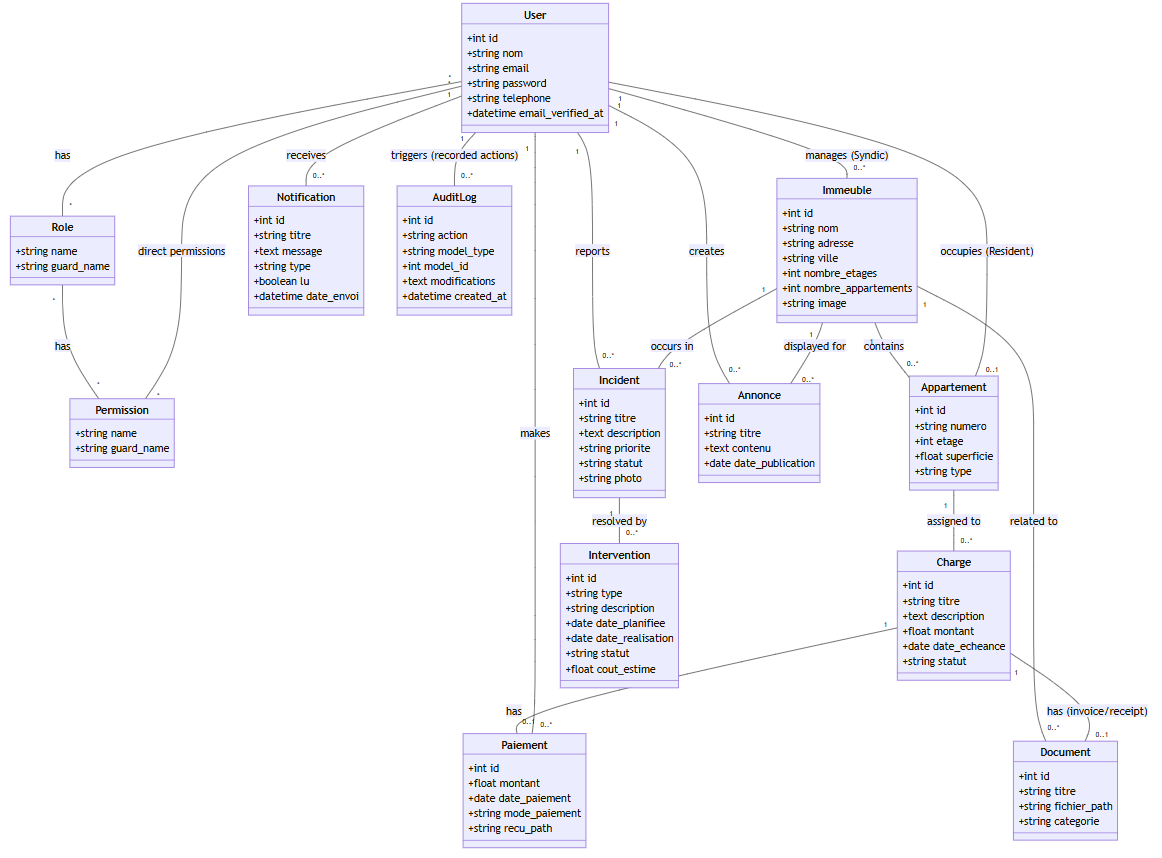
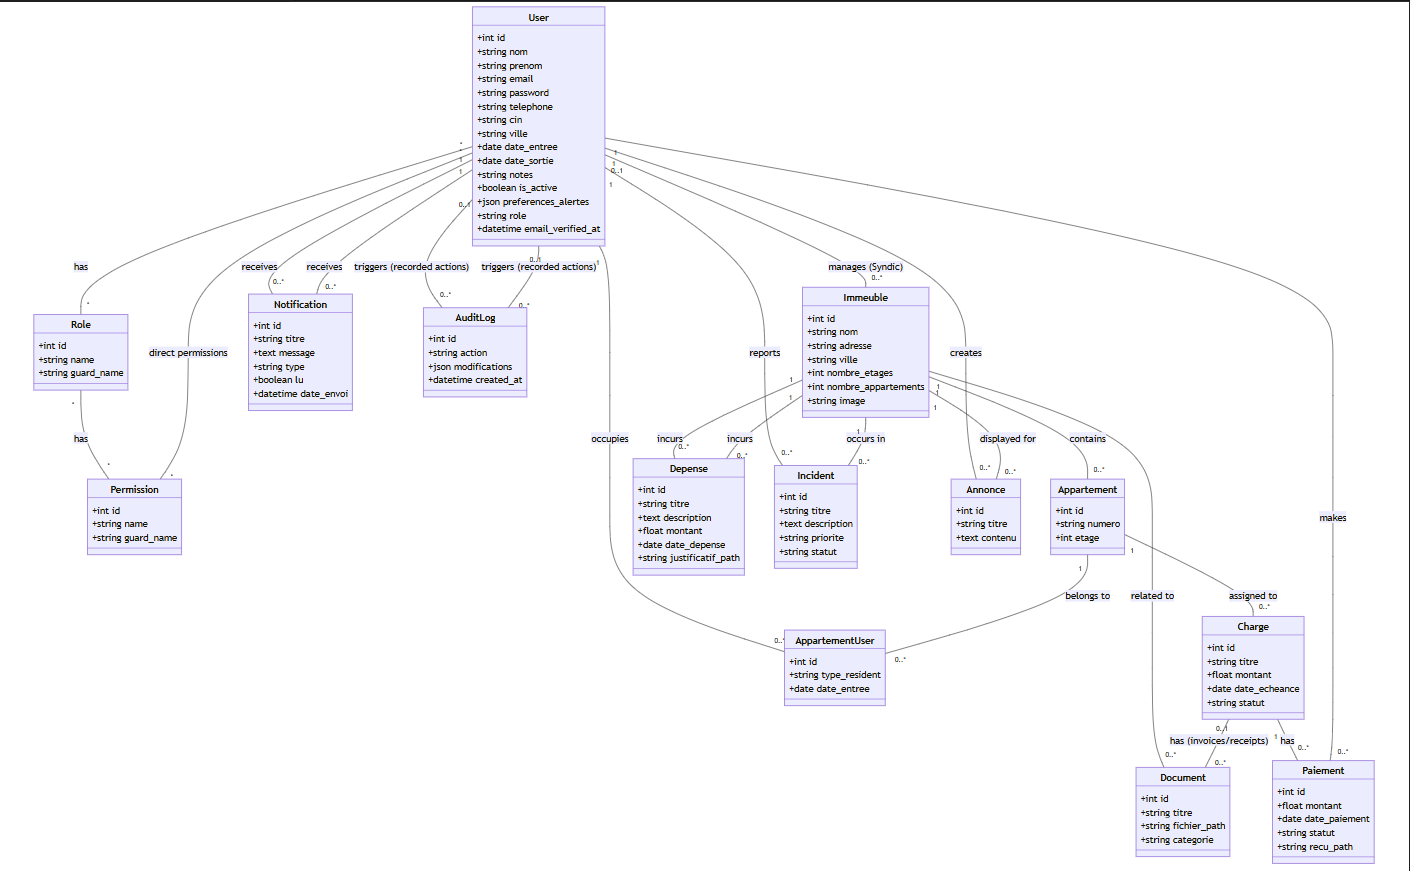
feat: restore API endpoints and class diagram from other PC

diff --git a/ImmoSyndic/app/Http/Controllers/Api/DashboardController.php b/ImmoSyndic/app/Http/Controllers/Api/DashboardController.php
@@ -1,0 +1,88 @@
+<?php
+
+namespace App\Http\Controllers\Api;
+
+use App\Http\Controllers\Controller;
+use App\Models\User;
+use App\Models\Incident;
+use App\Models\Paiement;
+use Illuminate\Http\JsonResponse;
+
+class DashboardController extends Controller
+{
+    public function resident(int $userId): JsonResponse
+    {
+        $user = User::with('appartements.immeuble')->findOrFail($userId);
+        $appartement = $user->appartements()->first();
+        $immeuble = $appartement ? $appartement->immeuble : null;
+
+        // Charges du mois courant (reste à payer)
+        $chargesMois = 0;
+        if ($appartement) {
+            $chargesMois = $appartement->charges()
+                ->whereMonth('date_echeance', now()->month)
+                ->whereYear('date_echeance', now()->year)
+                ->whereIn('statut', ['impayé', 'partiel'])
+                ->sum('montant');
+        }
+
+        // Total payé cette année
+        $totalPayeAnnee = Paiement::where('user_id', $userId)
+            ->whereYear('date_paiement', now()->year)
+            ->whereIn('statut', ['validé', 'payé'])
+            ->sum('montant');
+
+        // Incidents ouverts
+        $incidentsOuverts = Incident::where('user_id', $userId)
+            ->whereNotIn('statut', ['résolu', 'Résolu', 'terminé', 'Terminé'])
+            ->count();
+
+        // Activité récente (5 dernières entrées)
+        $activites = collect();
+
+        $mesPaiements = Paiement::where('user_id', $userId)
+            ->latest('date_paiement')->take(3)->get();
+        foreach ($mesPaiements as $p) {
+            $activites->push([
+                'date'        => $p->date_paiement ? $p->date_paiement->format('Y-m-d') : null,
+                'type'        => 'Paiement',
+                'description' => 'Règlement REF-' . str_pad($p->id, 6, '0', STR_PAD_LEFT),
+                'statut'      => $p->statut,
+                'color'       => in_array(strtolower($p->statut), ['payé', 'validé']) ? 'green' : 'orange',
+            ]);
+        }
+
+        $mesIncidents = Incident::where('user_id', $userId)->latest()->take(3)->get();
+        foreach ($mesIncidents as $i) {
+            $s = strtolower($i->statut);
+            $activites->push([
+                'date'        => $i->created_at->format('Y-m-d'),
+                'type'        => 'Signalement',
+                'description' => $i->titre,
+                'statut'      => $i->statut,
+                'color'       => in_array($s, ['nouveau', 'ouvert', 'à traiter']) ? 'blue'
+                               : (in_array($s, ['en cours']) ? 'orange' : 'green'),
+            ]);
+        }
+
+        $activites = $activites->sortByDesc('date')->take(5)->values();
+
+        return response()->json([
+            'status' => 'success',
+            'data' => [
+                'user' => [
+                    'prenom'    => $user->prenom,
+                    'nom'       => $user->nom,
+                    'immeuble'  => $immeuble ? $immeuble->nom : null,
+                    'appartement' => $appartement ? $appartement->numero : null,
+                ],
+                'stats' => [
+                    'charges_mois'      => (float) $chargesMois,
+                    'total_paye_annee'  => (float) $totalPayeAnnee,
+                    'incidents_ouverts' => $incidentsOuverts,
+                ],
+                'activites' => $activites,
+            ],
+        ]);
+    }
+}

diff --git a/ImmoSyndic/app/Http/Controllers/Api/AnnonceController.php b/ImmoSyndic/app/Http/Controllers/Api/AnnonceController.php
@@ -1,0 +1,49 @@
+<?php
+
+namespace App\Http\Controllers\Api;
+
+use App\Http\Controllers\Controller;
+use App\Models\User;
+use App\Models\Annonce;
+use Illuminate\Http\JsonResponse;
+
+class AnnonceController extends Controller
+{
+    public function index(int $userId): JsonResponse
+    {
+        $user = User::with('appartements.immeuble')->findOrFail($userId);
+        $appartement = $user->appartements()->first();
+        $immeuble = $appartement ? $appartement->immeuble : null;
+
+        if (!$immeuble) {
+            return response()->json([
+                'status' => 'success',
+                'data'   => [],
+                'immeuble' => null,
+            ]);
+        }
+
+        $annonces = Annonce::where('immeuble_id', $immeuble->id)
+            ->with('syndic')
+            ->latest()
+            ->get()
+            ->map(function ($annonce) {
+                return [
+                    'id'          => $annonce->id,
+                    'titre'       => $annonce->titre,
+                    'contenu'     => $annonce->contenu,
+                    'created_at'  => $annonce->created_at->format('Y-m-d H:i:s'),
+                    'syndic_nom'  => $annonce->syndic ? $annonce->syndic->prenom . ' ' . $annonce->syndic->nom : 'Syndic',
+                    'syndic_avatar' => $annonce->syndic
+                        ? 'https://ui-avatars.com/api/?name=' . urlencode($annonce->syndic->prenom . ' ' . $annonce->syndic->nom) . '&background=3b66f5&color=fff&font-size=0.4'
+                        : null,
+                ];
+            });
+
+        return response()->json([
+            'status'   => 'success',
+            'data'     => $annonces,
+            'immeuble' => $immeuble->nom,
+        ]);
+    }
+}

diff --git a/ImmoSyndic/app/Http/Controllers/Api/ProfileController.php b/ImmoSyndic/app/Http/Controllers/Api/ProfileController.php
@@ -1,0 +1,36 @@
+<?php
+
+namespace App\Http\Controllers\Api;
+
+use App\Http\Controllers\Controller;
+use App\Models\User;
+use Illuminate\Http\JsonResponse;
+
+class ProfileController extends Controller
+{
+    public function show(int $userId): JsonResponse
+    {
+        $user = User::with('appartements.immeuble')->findOrFail($userId);
+        $appartement = $user->appartements()->first();
+        $immeuble = $appartement ? $appartement->immeuble : null;
+
+        return response()->json([
+            'status' => 'success',
+            'data' => [
+                'id'         => $user->id,
+                'prenom'     => $user->prenom,
+                'nom'        => $user->nom,
+                'email'      => $user->email,
+                'telephone'  => $user->telephone,
+                'cin'        => $user->cin,
+                'role'       => $user->role,
+                'appartement' => $appartement ? [
+                    'numero'   => $appartement->numero,
+                    'immeuble' => $immeuble ? $immeuble->nom : null,
+                    'ville'    => $immeuble ? $immeuble->ville : null,
+                ] : null,
+                'avatar' => 'https://ui-avatars.com/api/?name=' . urlencode($user->prenom . ' ' . $user->nom) . '&background=3b66f5&color=fff&size=128',
+            ],
+        ]);
+    }
+}

diff --git a/ImmoSyndic/app/Http/Controllers/Api/PaiementController.php b/ImmoSyndic/app/Http/Controllers/Api/PaiementController.php
@@ -1,0 +1,34 @@
+<?php
+
+namespace App\Http\Controllers\Api;
+
+use App\Http\Controllers\Controller;
+use App\Models\User;
+use Illuminate\Http\JsonResponse;
+
+class PaiementController extends Controller
+{
+    public function index(int $userId): JsonResponse
+    {
+        $user = User::with(['paiements' => function ($q) {
+            $q->latest('date_paiement');
+        }])->findOrFail($userId);
+
+        $paiements = $user->paiements->map(function ($paiement) {
+            return [
+                'id'            => $paiement->id,
+                'reference'     => 'REF-' . str_pad($paiement->id, 6, '0', STR_PAD_LEFT),
+                'montant'       => (float) $paiement->montant,
+                'date_paiement' => $paiement->date_paiement
+                    ? $paiement->date_paiement->format('Y-m-d')
+                    : null,
+                'statut'        => $paiement->statut,
+            ];
+        });
+
+        return response()->json([
+            'status' => 'success',
+            'data'   => $paiements,
+        ]);
+    }
+}

diff --git a/ImmoSyndic/routes/api.php b/ImmoSyndic/routes/api.php
@@ -19,7 +19,13 @@ Route::get('/incidents', [IncidentController::class, 'index']);
 Route::get('/incidents/{id}', [IncidentController::class, 'show']);
 Route::post('/incidents', [IncidentController::class, 'store']);
 
-// New Mobile Consultation API Endpoints
+// Existing Mobile Endpoints
 Route::get('/charges/{userId}', [App\Http\Controllers\Api\ChargeController::class, 'index']);
 Route::get('/notifications/{userId}', [App\Http\Controllers\Api\NotificationController::class, 'index']);
 Route::get('/documents/{userId}', [App\Http\Controllers\Api\DocumentController::class, 'index']);
+
+// New Mobile Endpoints
+Route::get('/annonces/{userId}', [App\Http\Controllers\Api\AnnonceController::class, 'index']);
+Route::get('/paiements/{userId}', [App\Http\Controllers\Api\PaiementController::class, 'index']);
+Route::get('/dashboard/{userId}', [App\Http\Controllers\Api\DashboardController::class, 'resident']);
+Route::get('/profile/{userId}', [App\Http\Controllers\Api\ProfileController::class, 'show']);

diff --git a/ImmoSyndic/app/Http/Controllers/Api/IncidentController.php b/ImmoSyndic/app/Http/Controllers/Api/IncidentController.php
@@ -52,7 +52,7 @@ class IncidentController extends Controller
             'description' => 'required|string',
             'immeuble_id' => 'required|exists:immeubles,id',
             'user_id' => 'required|exists:users,id',
-            'priorite' => 'string|in:Basse,Moyenne,Haute',
+            'priorite' => 'required|string|in:basse,moyenne,haute,urgente',
         ]);
 
         $incident = $this->incidentService->create(array_merge($validatedData, [
